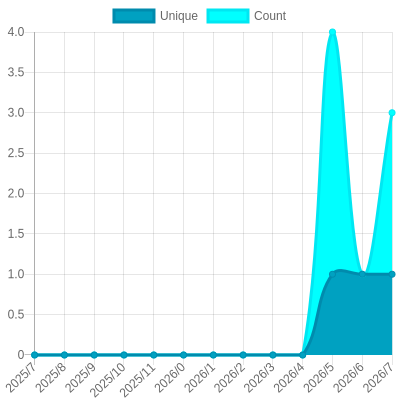
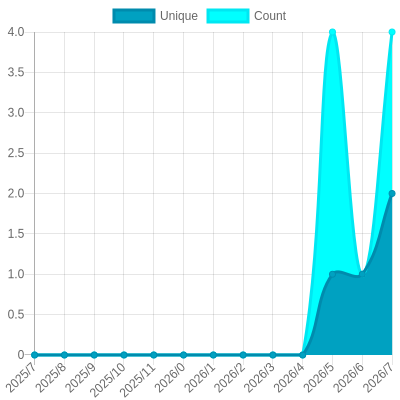
Update views

Changed region(s): [[0.84, 0.06, 0.99, 0.69]]

diff --git a/readme/969156905/year.md b/readme/969156905/year.md
@@ -23,10 +23,10 @@
 			<code>2025/8/1</code>
 		</td>
 		<td>
-			<code>1</code>
+			<code>2</code>
 		</td>
 		<td>
-			<code>3</code>
+			<code>4</code>
 		</td>
 	</tr>
 	<tr>
@@ -164,7 +164,7 @@
 </table>
 
 </details>
-<small><i>Last updated on 2025/8/5 6:34 AM UTC</i></small>
+<small><i>Last updated on 2025/8/5 12:47 PM UTC</i></small>
 
 ## ✂Copy and 📋 Paste
 ### SVG Badge

diff --git a/README.md b/README.md
@@ -85,7 +85,7 @@ The project created and maintained by [gayanvoice](https://github.com/gayanvoice
 	</tr>
 </table>
 
-<small><i>Last updated on 2025/8/5 6:35 AM UTC</i></small>
+<small><i>Last updated on 2025/8/5 12:48 PM UTC</i></small>
 
 ## ✂Copy and 📋 Paste
 ### Total Views Badge

diff --git a/readme/1010491084/year.md b/readme/1010491084/year.md
@@ -164,7 +164,7 @@
 </table>
 
 </details>
-<small><i>Last updated on 2025/8/5 6:34 AM UTC</i></small>
+<small><i>Last updated on 2025/8/5 12:47 PM UTC</i></small>
 
 ## ✂Copy and 📋 Paste
 ### SVG Badge

diff --git a/readme/957512238/year.md b/readme/957512238/year.md
@@ -164,7 +164,7 @@
 </table>
 
 </details>
-<small><i>Last updated on 2025/8/5 6:34 AM UTC</i></small>
+<small><i>Last updated on 2025/8/5 12:48 PM UTC</i></small>
 
 ## ✂Copy and 📋 Paste
 ### SVG Badge

diff --git a/readme/995396585/year.md b/readme/995396585/year.md
@@ -164,7 +164,7 @@
 </table>
 
 </details>
-<small><i>Last updated on 2025/8/5 6:34 AM UTC</i></small>
+<small><i>Last updated on 2025/8/5 12:48 PM UTC</i></small>
 
 ## ✂Copy and 📋 Paste
 ### SVG Badge
